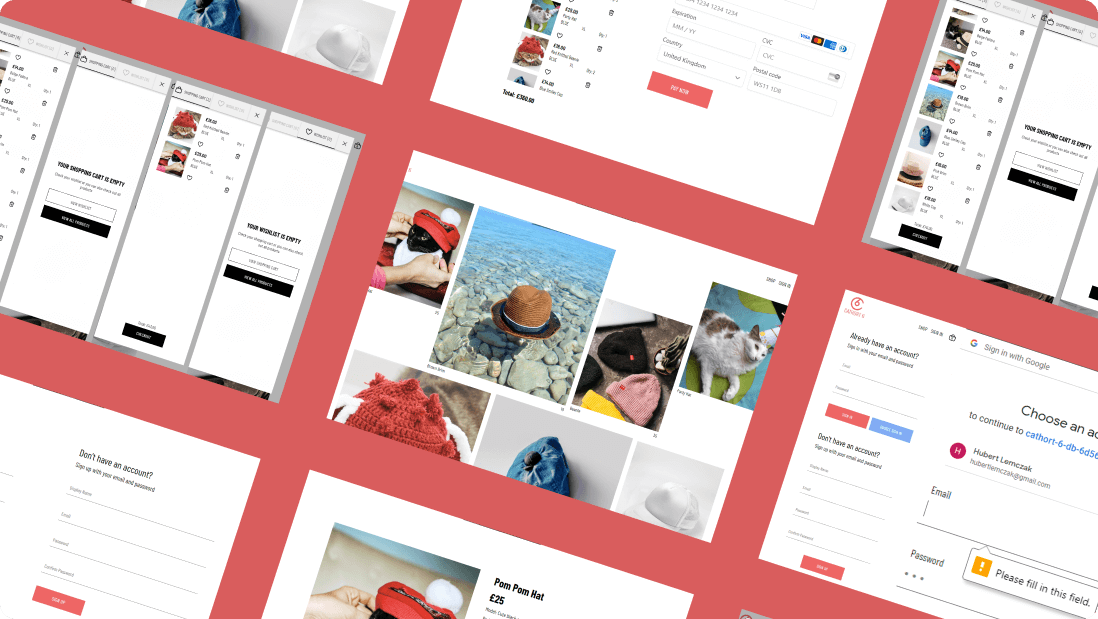
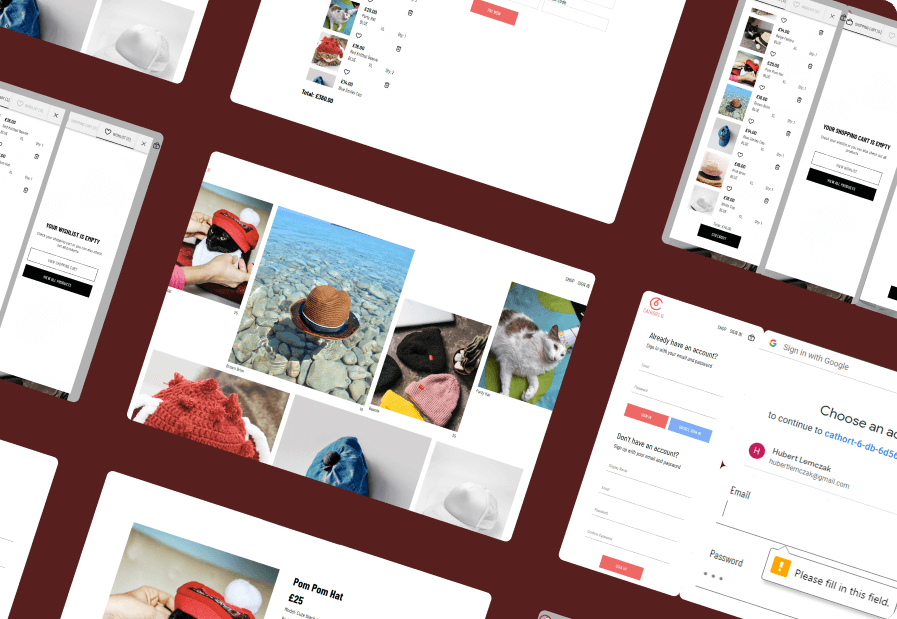
refactor: update project thumbnail images

diff --git a/src/pages/landingPage/projects/index.jsx b/src/pages/landingPage/projects/index.jsx
@@ -1,5 +1,5 @@
 import CLASSABLE from '../../../assets/images/classable.png';
-import CHATAPP from '../../../assets/images/chat-app.png';
+import CHATTER from '../../../assets/images/chatter.png';
 import CATHORT6 from '../../../assets/images/cathort6.png';
 import CLONES from '../../../assets/images/clones.png';
 import Title from '../../../components/Title';
@@ -24,10 +24,21 @@ const Projects = () => {
             'Tailwind',
             'Socket.io',
           ]}
-          theme="bg-[#2BC48A]"
+          theme="bg-[#122e20]"
           image={CLASSABLE}
           path="classable"
         />
+
+        <Project
+          title="Cathort 6"
+          description="Designed and delivered an ecommerce store using Stripe to handle payment processes, Firebase to store data, handle authentication and allow 'Google Sign-in', styled components for smooth transitions and animations. "
+          tools={['React', 'Firebase', 'Stripe', 'Styled-Components']}
+          theme="bg-[#581f1f]"
+          image={CATHORT6}
+          path="cathort-6"
+          reverse={true}
+        />
+
         <Project
           title="Chatter"
           description="Interactive chat application designed for business and leisure purposes. Featuring authentication, private and group messaging delivered with the Socket.io library for live data transmission."
@@ -39,19 +50,11 @@ const Projects = () => {
             'Tailwind',
             'Socket.io',
           ]}
-          theme="bg-[#FDA172]"
-          image={CHATAPP}
+          theme="bg-[#9b2f00]"
+          image={CHATTER}
           path="chatter"
-          reverse={true}
         />
-        <Project
-          title="Cathort 6"
-          description="Designed and delivered an ecommerce store using Stripe to handle payment processes, Firebase to store data, handle authentication and allow 'Google Sign-in', styled components for smooth transitions and animations. "
-          tools={['React', 'Firebase', 'Stripe', 'Styled-Components']}
-          theme="bg-[#d95d5d]"
-          image={CATHORT6}
-          path="cathort-6"
-        />
+
         <Project
           title="Clones"
           description="Clones of websites, for targeted skills development, including Spotify and challenges from Frontend Mentor"

diff --git a/src/pages/landingPage/projects/components/Project.jsx b/src/pages/landingPage/projects/components/Project.jsx
@@ -20,7 +20,7 @@ const Project = ({
       }`}
     >
       <img
-        className={`lg:absolute lg:h-full ${
+        className={`rounded-2xl lg:absolute ${
           reverse ? 'lg:order-2 lg:left-1/2 lg:ml-16' : 'lg:right-1/2 lg:mr-16'
         }`}
         src={image}
@@ -43,7 +43,7 @@ const Project = ({
           {tools.map(tool => (
             <li
               key={uniqid()}
-              className={`rounded-full text-sm font-bold text-black ${theme} px-3 py-1`}
+              className={`rounded-full text-sm font-bold text-white ${theme} px-3 py-1`}
             >
               {tool}
             </li>
